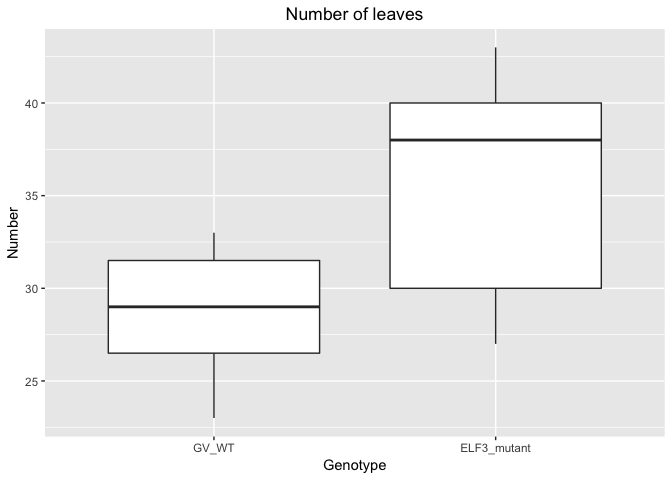
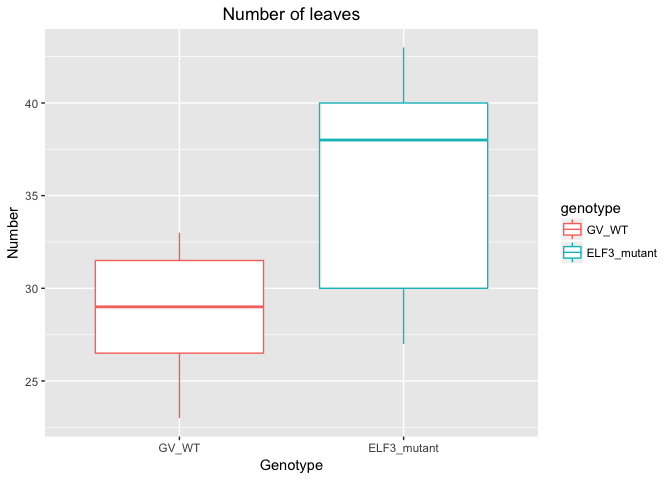
update loading script

diff --git a/phenotyping_script.html b/phenotyping_script.html
@@ -163,8 +163,6 @@ $(document).ready(function () {
 ## #   final_height &lt;dbl&gt;, internodes &lt;int&gt;, leaves &lt;int&gt;, stem_circ_1 &lt;dbl&gt;,
 ## #   stem_circ_2 &lt;dbl&gt;, stem_circ_3 &lt;dbl&gt;, stem_circ_4 &lt;dbl&gt;</code></pre>
 <pre class="r"><code>(flower &lt;- raw.flower %&gt;%
-#  col_types = cols(
-#    genotype = col_factor(levels = &quot;GV_WT&quot;, &quot;ELF3_mutant&quot;)) %&gt;%
   filter(ugly == FALSE) %&gt;% 
   mutate(
     days.g2p = parse_integer(petals - germ),
@@ -502,13 +500,13 @@ $(document).ready(function () {
 ##             (Intr)
 ## gntypELF3_m -0.205</code></pre>
 <pre class="r"><code>flower %&gt;%
-  ggplot(aes(genotype, leaves)) +
+  ggplot(aes(genotype, leaves, color = genotype)) +
   geom_boxplot() +
   ggtitle(&quot;Number of leaves&quot;) + 
   xlab(&quot;Genotype&quot;) + 
   ylab(&quot;Number&quot;) +
   theme(plot.title = element_text(hjust = .5)) </code></pre>
[2 lines of base64/hex data omitted]
 <pre class="r"><code>summary(lmer(leaves ~ genotype + (1|germ), data=flower))</code></pre>
 <pre><code>## Linear mixed model fit by REML t-tests use Satterthwaite approximations
 ##   to degrees of freedom [lmerMod]

diff --git a/phenotyping_script.md b/phenotyping_script.md
@@ -54,8 +54,6 @@ Veronica
 
 ```r
 (flower <- raw.flower %>%
-#  col_types = cols(
-#    genotype = col_factor(levels = "GV_WT", "ELF3_mutant")) %>%
   filter(ugly == FALSE) %>% 
   mutate(
     days.g2p = parse_integer(petals - germ),
@@ -498,7 +496,7 @@ summary(lmer(internodes ~ genotype + (1|germ), data=flower))
 
 ```r
 flower %>%
-  ggplot(aes(genotype, leaves)) +
+  ggplot(aes(genotype, leaves, color = genotype)) +
   geom_boxplot() +
   ggtitle("Number of leaves") + 
   xlab("Genotype") + 
